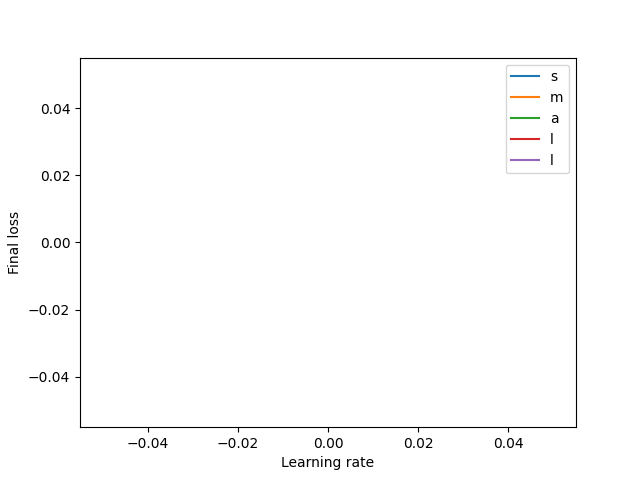
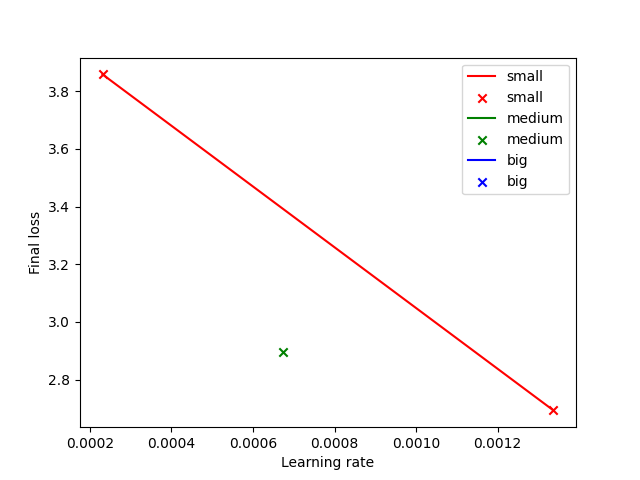
Learning rate tuning ??

diff --git a/src/jif/__main__.py b/src/jif/__main__.py
@@ -259,9 +259,11 @@ def main(*args, **kwargs):
         log_dict = train(*args, **kwargs | {"n_steps": 2_000, "lr": lr, "size": "small"},
                          quiet=True, profile=False)
         losses[model].append(log_dict["loss"])
+
         for model, color in zip(models, colors):
             plt.plot(lrs_sampled[model], losses[model], label=model, c=color)
-            plt.scatter(lrs_sampled[model], losses[model], label=model, marker="x", c=color)
+            plt.scatter(lrs_sampled[model], losses[model], marker="x", c=color)
+        plt.xlim(lrs[0], lrs[-1])
         plt.xlabel("Learning rate")
         plt.ylabel("Final loss")
         plt.legend()
@@ -270,4 +272,5 @@ def main(*args, **kwargs):
 
 
 if __name__ == "__main__":
+    # fire.Fire(train); exit()
     fire.Fire(main)
